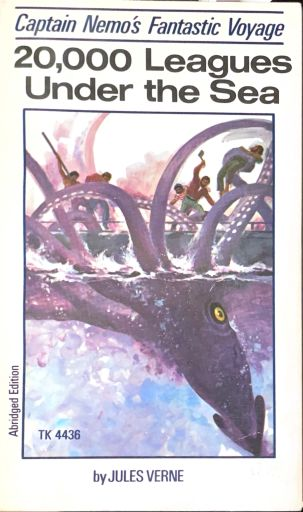
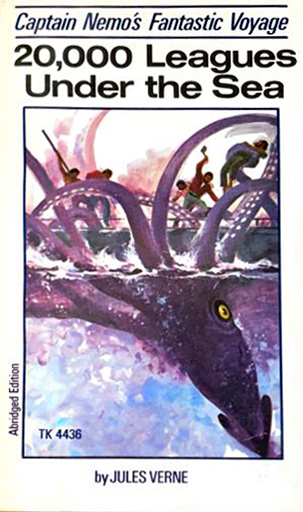
11/19/2025 - Revision 2
Updated covers of various books to correct perspective and colour

diff --git a/pages/main/changelog.html b/pages/main/changelog.html
@@ -51,8 +51,9 @@
             <h1>
                 The Changelog 
             </h1>
-            <h2>11/19/25–1 Commit</h2>
+            <h2>11/19/25–2 Commits</h2>
                 <li>Updated read books</li>
+                <li>Updated covers of various books to correct perspective and colour</li>
             <h2>11/14/25–1 Commit</h2>
                 <li>Updated read books</li>
             <h2>11/11/25–1 Commit</h2>
